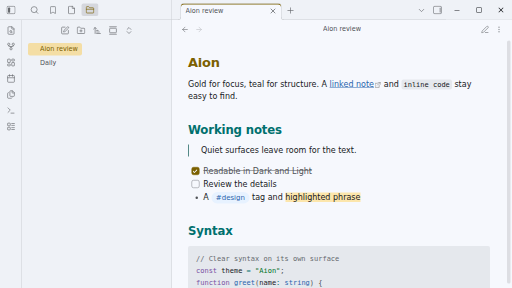
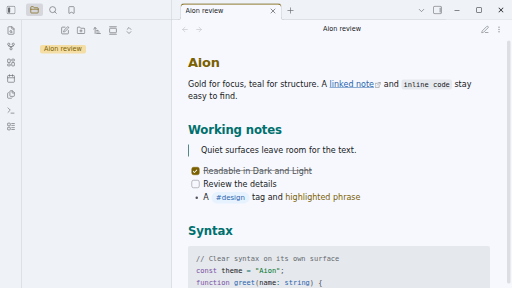
Prepare Aion 1.1.2 release

diff --git a/PLAN.md b/PLAN.md
@@ -406,6 +406,17 @@ equal inline padding. Obsidian's computed badge style resolved to dark text on t
 gold fill. Light mode, physical phones and other platforms remain unchecked for
 this revision.
 
+### 1.1.2 release acceptance
+
+The Dark-mode Obsidian 1.13.7 checks above remain valid for the unchanged stylesheet.
+The 1.1.2 version fields did not change the stylesheet. In the same isolated native app, Light
+mode computed styles confirmed gold text on a transparent reading highlight, a dark
+gold badge with light text, and a transparent active file row with the fill on its label.
+The community image and Dark/Light desktop screenshots were refreshed from the 1.1.2
+theme. The existing Live Preview, Source, menu, dialog and mobile results for 1.1.1
+were not repeated; those states have not been checked for the new highlight and callout
+rules.
+
 ## Order and parallelism
 
 Tasks 1 to 11 are done.

diff --git a/CHANGELOG.md b/CHANGELOG.md
@@ -5,6 +5,15 @@ the versions follow Semantic Versioning.
 
 ## Unreleased
 
+## 1.1.2
+
+### Fixed
+
+- Obsidian: community theme badges use readable text on their gold fill, and the active
+  file highlight follows the filename with equal padding on both sides.
+- Obsidian: reading-view highlights show gold text beside blue tags, and callout titles
+  center vertically. The stylesheet no longer uses `:has`.
+
 ## 1.1.1
 
 ### Fixed
